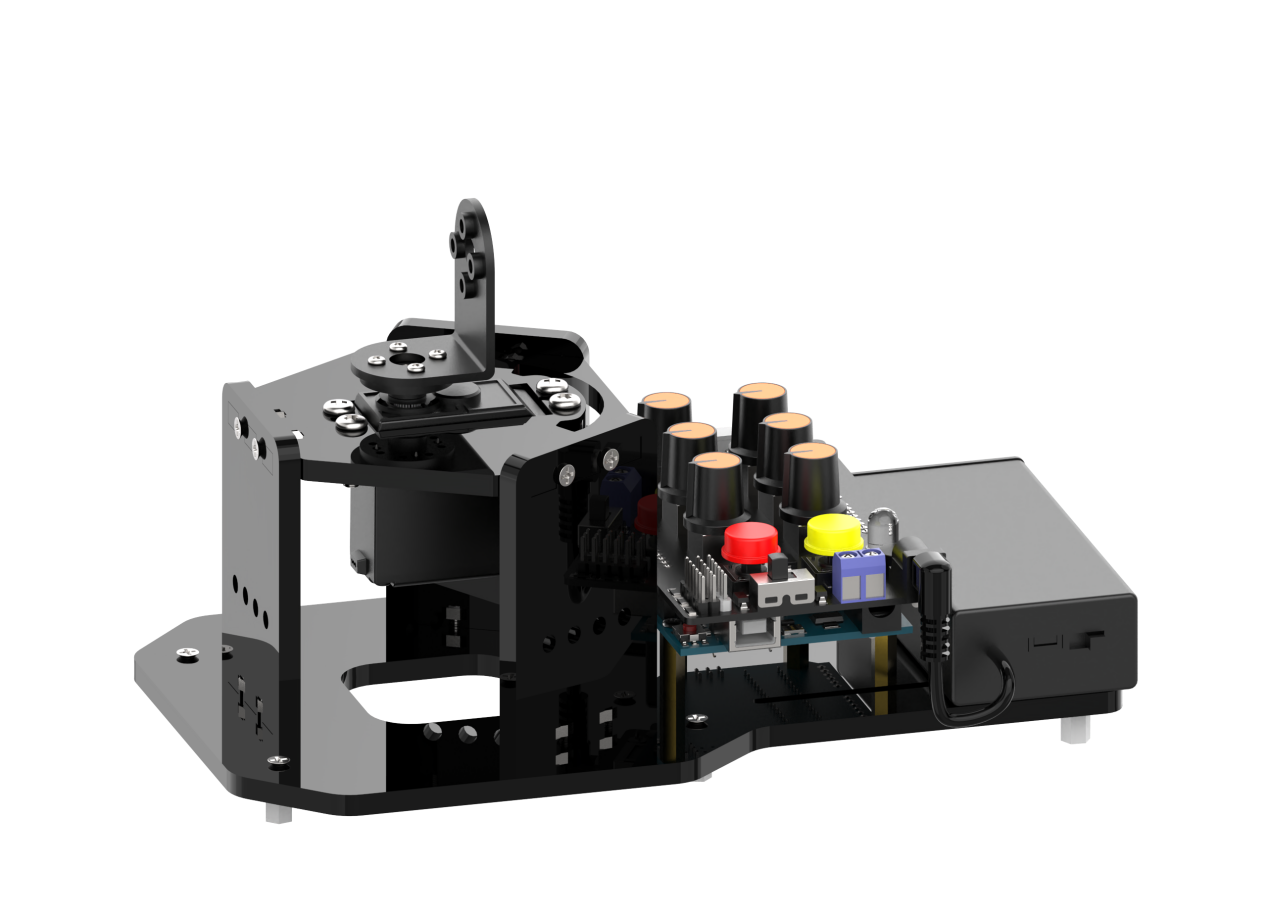
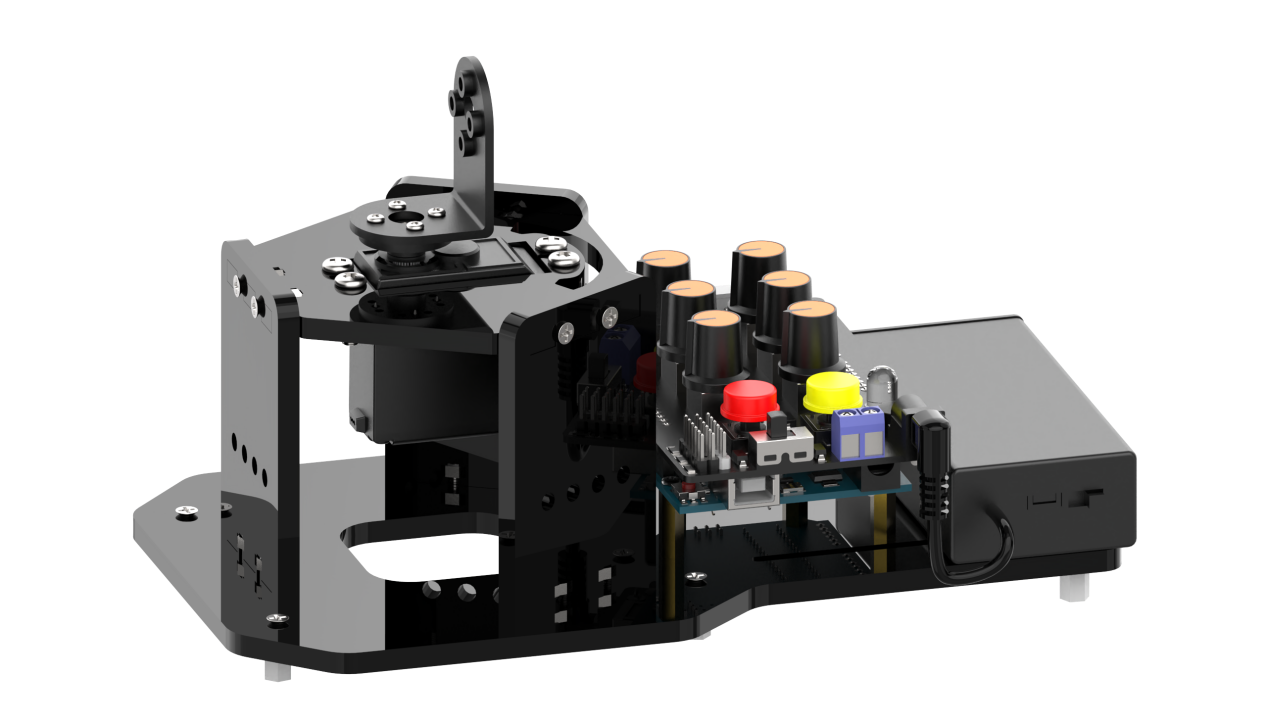
uHand UNO 2

diff --git a/source/_static/style.css b/source/_static/style.css
@@ -105,7 +105,11 @@ table {
     border-bottom: 1px solid #e1e4e5;
     border-left: 1px solid #e1e4e5;
 }
-#getting-ready .wy-table-responsive
+
+#getting-ready .wy-table-responsive{
+    text-align:center;
+}
+
 @media screen and (min-width: 1400px) {
     .wy-grid-for-nav .wy-nav-side, .wy-grid-for-nav .wy-side-nav-search, .wy-grid-for-nav .wy-menu {
         width: 320px;

diff --git a/source/docs/1.Getting_Ready.md b/source/docs/1.Getting_Ready.md
@@ -81,7 +81,7 @@ In addition, unless Hiwonder has expressly stated that the product has a certain
 | 16      | Glowing ultrasonic sensor                                    | 1            | <img src="../_static/media/chapter_1/section_2/media/16.png" style="width: 120px;" /> |
 | 17      | Acceleration sensor                                          | 1            | <img src="../_static/media/chapter_1/section_2/media/17.png" style="width: 120px;" /> |
 | 18      | Touch sensor                                                 | 1            | <img src="../_static/media/chapter_1/section_2/media/18.png" style="width: 120px;" /> |
-| 19      | Type-c data cable                                            | 1            | <img src="../_static/media/chapter_1/section_2/media/19.png"  style="width: 120px;"/> |
+| 19      | Type-c data cable                                            | 1            | <img src="../_static/media/chapter_1/section_2/media/19.png"  style="width: 180px;"/> |
 
 (3) uHand UNO Advanced Packing List
 
